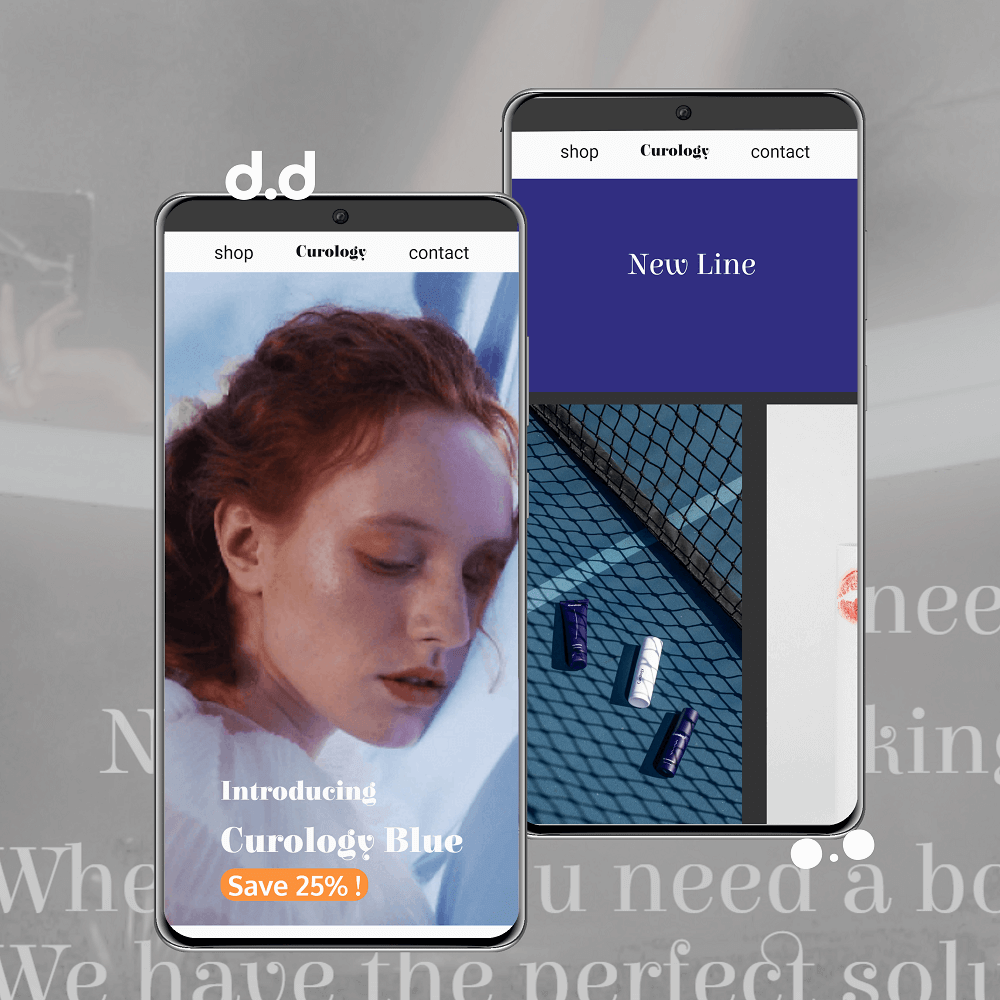
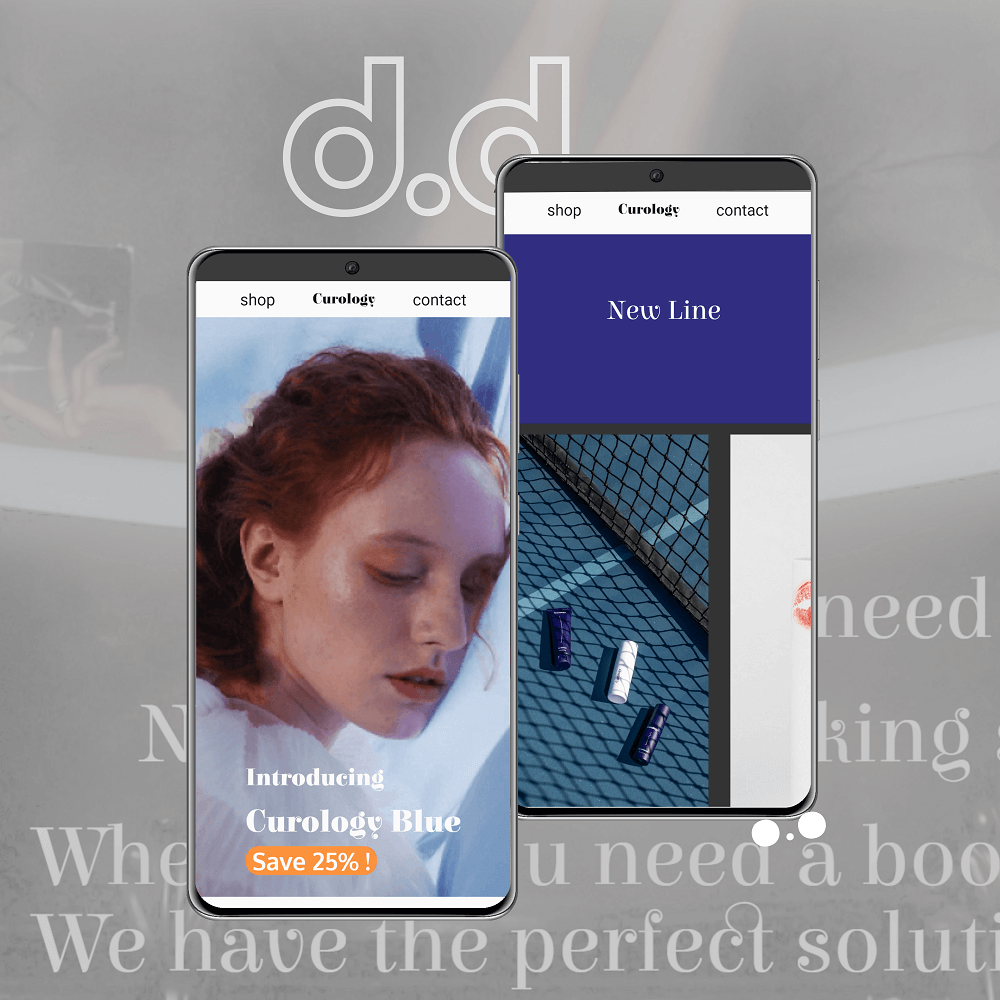
next update

diff --git a/pages/About.js b/pages/About.js
@@ -15,33 +15,33 @@ const About = () => {
     }
     return (
         <>
-            <main>
+            <main className="relative">
                 <section className="h-screen flex justify-center items-center">
+                    <h1 className="aboutbgdd tracking-widest absolute top-[10vw] right-[12vw] opacity-25">d.d</h1>
 
-
-                    <div className="w-[95vw] lg:w-[70vw]">
+                    <div className="aboutcontainer w-[95vw] lg:w-[70vw]">
                         <motion.h1 animate={titleAnimate} className="header">About</motion.h1>
                         <motion.div animate={paragraphAnimate} className="border-[0.15rem] border-l-0 border-b-0 border-amber-600 w-fit">
-                            <p className="paragraph lg:w-[60ch] text-[var(--stone)] font-bold
+                            <p className="paragraph lg:w-[60ch] text-[var(--stone)]
                             pt-4 pr-6 
                             md:pt-8 md:pr-12 
                             
                             ">
-                                Daniel Hubschmann from Germany. <br />Senior digital designer with over 20 years experience.
+                                Daniel Hubschmann from Germany. <br />Senior multidisciplinary designer with over 20 years experience.
                                 <br />
                                 <br />
 
                                 Skills:{' '}<span className="text-amber-600 font-extrabold">
-                                    Brand design, app and web design, digital graphic design for ads, events and presentations
+                                    App/ web/ UI design, brand & graphic design
                                 </span>.
                                 <br />
 
                                 Tools: <span className="text-amber-600 font-extrabold">Figma, Abobe Ai/ Ps/ Ae, Blender, Inkscape.
-                                    <br />HTML, CSS, JavaScript & JavaScript Frameworks, DALL-E and other AIs</span>.
+                                    <br />HTML, CSS, JavaScript, DALL-E and other AIs</span>.
                                 <br />
                                 <br />
-                                My current daily rate is 400 Euros. Higher rates for director and lead roles (All rates negotiable).
-                                If you are looking for a reliable freelancer and/ or sub contractor, please contact me{' '}
+                                Looking forward to working with agencies around the world.
+                                If you are in search of a reliable freelancer or sub contractor, please contact me{' '}
                                 <Link href="/Contact">
                                     <span className="text-amber-600 font-extrabold cursor-pointer underline">
                                         HERE  </span></Link>

diff --git a/components/Hero.js b/components/Hero.js
@@ -21,15 +21,15 @@ const Hero = () => {
             <section className="absolute top-[16vh] left-[2.5vw] md:left-[10vw]">
                 <h1 className="header">digital.dan agency</h1>
                 <motion.div animate={titleAnimate} className="paragraph">
-                    Daniel Hubschmann<br /> Senior Digital Designer</motion.div>
+                    Daniel Hubschmann<br /> Senior Brand & Digital Designer</motion.div>
 
             </section>
-            <div className="herobg bg-cover bg-center bg-no-repeat w-screen h-[55vh]
+            <div className="herobg2 bg-cover bg-center bg-no-repeat w-screen h-[55vh]
             flex flex-col justify-center items-center 
             " >
 
 
-                <motion.div animate={frameAnimate} className="border-l-0 border-b-0 border-stone-900 text-stone-900
+                <motion.div animate={frameAnimate} className="border-l-0 border-b-0 border-amber-500 text-amber-500
                  border-[0.15rem] pt-5 pr-[4vw] w-fit z-40
                 flex flex-col">
                     <Link href="/Work">

diff --git a/styles/globals.css b/styles/globals.css
@@ -57,6 +57,15 @@ body {
   background: url('/heroimg.png') center no-repeat;
   background-size: cover;
 }
+.herobg2 {
+  background: url('/heroimg2.png') center no-repeat;
+  background-size: cover;
+}
+
+.aboutbgdd {
+  font-size: clamp(4vw, 12vw - 10%, 14vw);
+  font-family: 'octarine';
+}
 
 .contactli {
   font-size: 4vw;
@@ -114,6 +123,10 @@ html.lenis {
 }
 /* smartphones */
 @media (max-width: 500px) {
+  .aboutbgdd {
+    display: none;
+  }
+
   .iconsize {
     font-size: 6vw;
     opacity: 80%;
@@ -121,7 +134,7 @@ html.lenis {
   }
   .header {
     font-family: 'octarine';
-    font-size: 9vw;
+    font-size: calc(7vw - 0.25vw);
     padding-left: 2vw;
   }
   .paragraph {
@@ -183,11 +196,14 @@ html.lenis {
   }
 }
 /* medium tablets, laptops & desktop monitors */
-@media (min-width: 1000px) {
+@media (min-width: 950px) {
   .iconsize {
     font-size: 1.8vw;
     opacity: 80%;
     left: 84vw;
+  }
+  .aboutcontainer {
+    width: 50vw;
   }
   .header {
     font-family: 'octarine';
